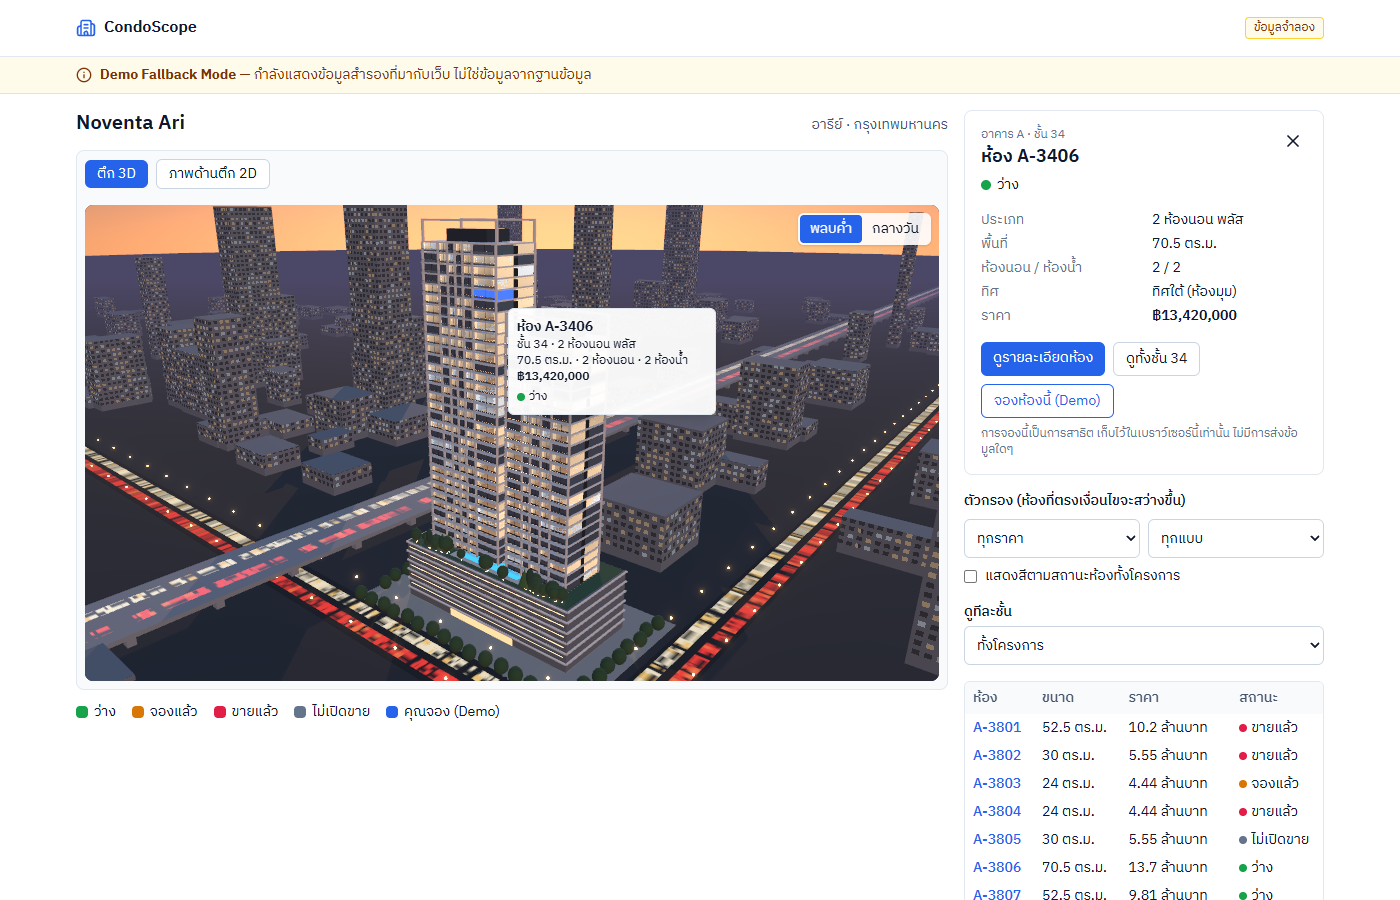
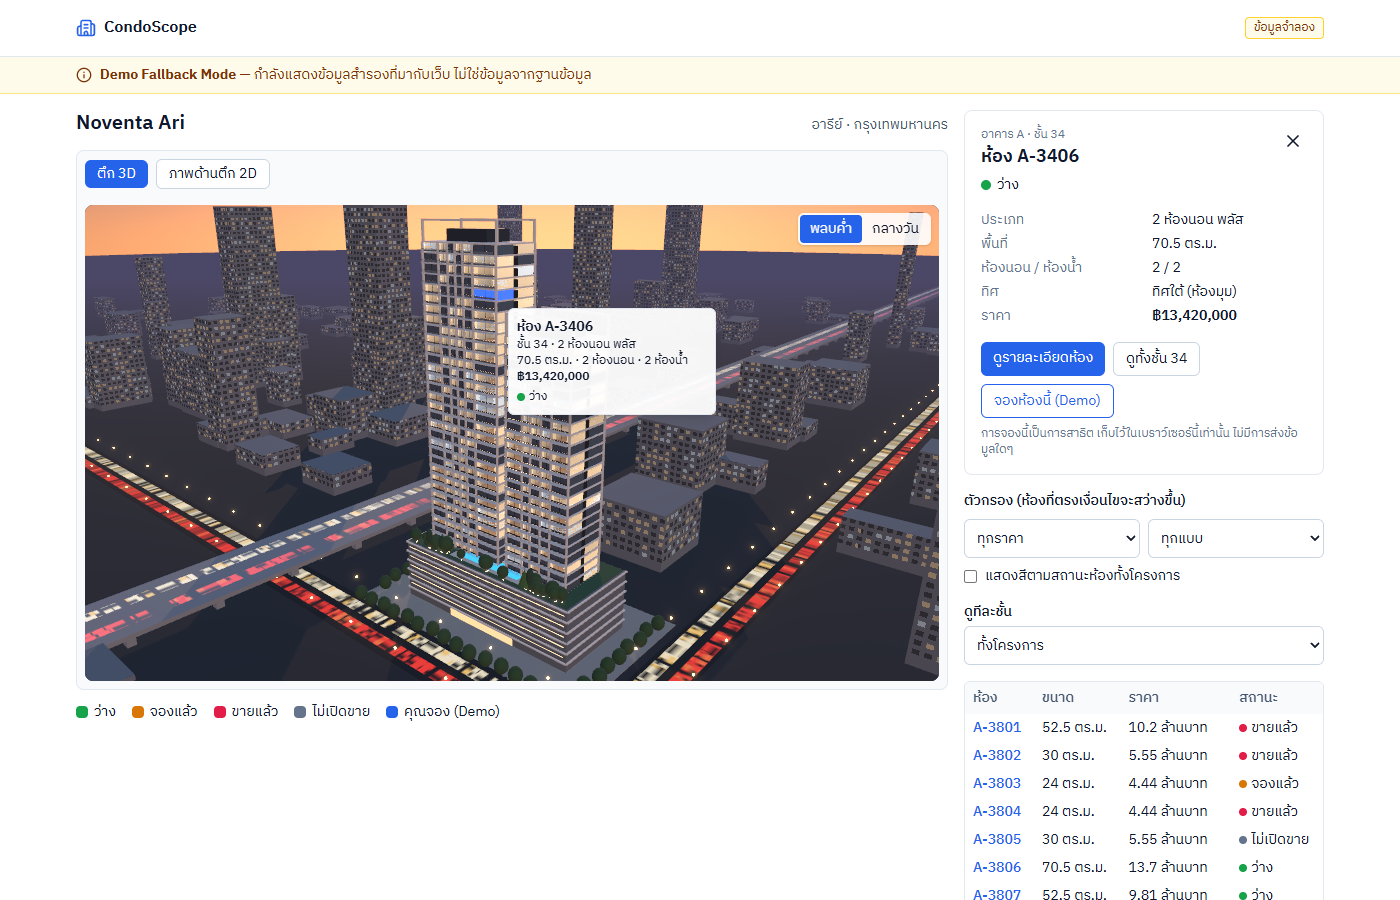
feat(explorer): camera turns to a selected unit that is out of sight
A unit picked from the list or keyboard (e.g. on the back facade) was selectable
but invisible. The camera now moves to the unit's facade only when the unit is not
already visible on screen. e2e port is configurable via E2E_PORT.

diff --git a/apps/web/src/features/explorer/Building3D.tsx b/apps/web/src/features/explorer/Building3D.tsx
@@ -3,10 +3,10 @@ import { Environment, OrbitControls, PerformanceMonitor } from '@react-three/dre
 import { Bloom, EffectComposer, SSAO } from '@react-three/postprocessing';
 import { Canvas, useFrame, useThree, type ThreeEvent } from '@react-three/fiber';
 import { Suspense, useEffect, useMemo, useRef, useState } from 'react';
-import { ACESFilmicToneMapping, InstancedMesh, Raycaster, Vector2, Vector3 } from 'three';
+import { ACESFilmicToneMapping, InstancedMesh, Raycaster, Vector2, Vector3, type Camera } from 'three';
 import type { OrbitControls as OrbitControlsImpl } from 'three-stdlib';
 import City from './scene/City';
-import { homeView, projectBounds, towerMatrix, unitWorldCenter, type Bounds, type Vec3 } from './scene/layout';
+import { homeView, projectBounds, towerMatrix, unitViewGoal, unitWorldCenter, type Bounds, type Vec3 } from './scene/layout';
 import Landscape from './scene/Landscape';
 import Site from './scene/Site';
 import Sky from './scene/Sky';
@@ -103,7 +103,7 @@ function Scene({ x, bounds, home, onHover, time, low, onSlow }: SceneProps) {
       <Landscape r={bounds} seed={seed} time={time} />
       <City r={bounds} seed={seed} time={time} />
       <Towers x={x} unitsRef={unitsRef} onHover={onHover} onPick={(u) => x.select(u.id)} />
-      <CameraRig x={x} home={home} bounds={bounds} />
+      <CameraRig x={x} home={home} bounds={bounds} unitsRef={unitsRef} />
       <Probe x={x} unitsRef={unitsRef} />
       {low ? (
         <EffectComposer key="low" multisampling={0}>
@@ -120,13 +120,20 @@ function Scene({ x, bounds, home, onHover, time, low, onSlow }: SceneProps) {
 }
 
 /** Orbit controls plus a smooth move to the home view or to a cut floor. Stops as soon as the user drags. */
-function CameraRig({ x, home, bounds }: { x: ExplorerApi; home: { position: Vec3; target: Vec3 }; bounds: Bounds }) {
+function CameraRig({ x, home, bounds, unitsRef }: { x: ExplorerApi; home: { position: Vec3; target: Vec3 }; bounds: Bounds; unitsRef: React.RefObject<InstancedMesh | null> }) {
   const controls = useRef<OrbitControlsImpl>(null);
   const goal = useRef<{ pos: Vector3; target: Vector3 } | null>(null);
-  const camera = useThree((s) => s.camera);
+  const { camera, gl } = useThree();
 
-  const { cutFloor, buildings } = x;
+  const { cutFloor, buildings, selectedId } = x;
   useEffect(() => { goal.current = viewFor(cutFloor, buildings, home); }, [cutFloor, buildings, home]);
+  // a unit picked from the list or keyboard may be out of sight (e.g. back facade): bring it into view
+  useEffect(() => {
+    if (selectedId === null || screenPoint(x, selectedId, unitsRef.current, camera, gl.domElement.getBoundingClientRect(), 0)) return;
+    const u = x.unit(selectedId)!;
+    const v = unitViewGoal(x.buildings.find((b) => b.id === u.building_id)!, u);
+    goal.current = { pos: new Vector3(...v.position), target: new Vector3(...v.target) };
+  }, [selectedId]); // only a new selection should move the camera, not every re-render
 
   useFrame((_, dt) => {
     const g = goal.current;
@@ -163,32 +170,29 @@ function viewFor(cut: CutFloor, buildings: Building[], home: { position: Vec3; t
 }
 
 /**
- * Test hook: screen position of a unit centre (used by the Playwright success-criterion test).
- * Returns null when the unit is off screen or hidden behind another unit.
+ * Screen position of a unit centre, or null when it is off screen, on a cut-away floor or hidden behind
+ * another unit. With px > 0 the unit must also cover px pixels around its centre (so a click cannot land on a neighbour).
  */
+function screenPoint(x: ExplorerApi, id: number, mesh: InstancedMesh | null, camera: Camera, rect: DOMRect, px: number) {
+  const u = x.unit(id);
+  const b = u && x.buildings.find((v) => v.id === u.building_id);
+  if (!u || !b || !mesh || !x.isVisible(u)) return null;
+  const ndc = unitWorldCenter(b, u).project(camera);
+  if (Math.abs(ndc.x) > 0.95 || Math.abs(ndc.y) > 0.95 || ndc.z > 1) return null;
+  const ray = new Raycaster();
+  for (const [dx, dy] of px ? [[0, 0], [px, 0], [-px, 0], [0, px], [0, -px]] : [[0, 0]]) {
+    ray.setFromCamera(new Vector2(ndc.x + (2 * dx) / rect.width, ndc.y + (2 * dy) / rect.height), camera);
+    const hit = ray.intersectObject(mesh).find((h) => h.instanceId !== undefined && x.isVisible(x.units[h.instanceId]));
+    if (!hit || x.units[hit.instanceId!].id !== id) return null;
+  }
+  return { x: rect.left + ((ndc.x + 1) / 2) * rect.width, y: rect.top + ((1 - ndc.y) / 2) * rect.height };
+}
+
+/** Test hook used by the Playwright success-criterion test. */
 function Probe({ x, unitsRef }: { x: ExplorerApi; unitsRef: React.RefObject<InstancedMesh | null> }) {
   const { camera, gl } = useThree();
   useEffect(() => {
-    const ray = new Raycaster();
-    window.__condoscope = {
-      projectUnit(id) {
-        const u = x.unit(id);
-        const b = u && x.buildings.find((v) => v.id === u.building_id);
-        const mesh = unitsRef.current;
-        if (!u || !b || !mesh || !x.isVisible(u)) return null;
-        const ndc = unitWorldCenter(b, u).project(camera);
-        if (Math.abs(ndc.x) > 0.95 || Math.abs(ndc.y) > 0.95 || ndc.z > 1) return null;
-        const r = gl.domElement.getBoundingClientRect();
-        // the unit must cover a few pixels around its centre, so a click there cannot land on a neighbour
-        const px = 3;
-        for (const [dx, dy] of [[0, 0], [px, 0], [-px, 0], [0, px], [0, -px]]) {
-          ray.setFromCamera(new Vector2(ndc.x + (2 * dx) / r.width, ndc.y + (2 * dy) / r.height), camera);
-          const hit = ray.intersectObject(mesh).find((h) => h.instanceId !== undefined && x.isVisible(x.units[h.instanceId]));
-          if (!hit || x.units[hit.instanceId!].id !== id) return null;
-        }
-        return { x: r.left + ((ndc.x + 1) / 2) * r.width, y: r.top + ((1 - ndc.y) / 2) * r.height };
-      },
-    };
+    window.__condoscope = { projectUnit: (id) => screenPoint(x, id, unitsRef.current, camera, gl.domElement.getBoundingClientRect(), 3) };
     return () => { delete window.__condoscope; };
   }, [x, camera, gl, unitsRef]);
   return null;

diff --git a/apps/web/src/features/explorer/scene/layout.test.ts b/apps/web/src/features/explorer/scene/layout.test.ts
@@ -1,7 +1,7 @@
 import { buildingWidth, unitBox, type ExplorerPayload } from '@condoscope/shared';
 import { beforeAll, describe, expect, it } from 'vitest';
 import { getExplorer } from '../../../services/api';
-import { homeView, projectBounds, unitWorldCenter } from './layout';
+import { homeView, projectBounds, unitViewGoal, unitWorldCenter } from './layout';
 
 let ari: ExplorerPayload;
 let onNut: ExplorerPayload;
@@ -38,6 +38,19 @@ describe('scene layout', () => {
     expect(r.maxX).toBeGreaterThanOrEqual(b.origin_x_m + buildingWidth(b) / 2);
     expect(r.podiumH).toBeCloseTo(6 * 3.6);
     expect(r.top).toBeGreaterThan(r.podiumH + 31 * 3.2);
+  });
+
+  it('puts the camera outside the facade a unit is on, looking at it', () => {
+    const b = ari.buildings[0];
+    const front = ari.units.find((u) => u.building_id === b.id && u.facade === 'front' && u.floor_number === 20)!;
+    const back = ari.units.find((u) => u.building_id === b.id && u.facade === 'back' && u.floor_number === 20)!;
+    const f = unitViewGoal(b, front);
+    expect(f.position[2]).toBeGreaterThan(f.target[2] + 30);
+    expect(f.target).toEqual(unitWorldCenter(b, front).toArray());
+    expect(unitViewGoal(b, back).position[2]).toBeLessThan(unitWorldCenter(b, back).z - 30);
+    const turned = onNut.units.find((u) => u.facade === 'front')!;
+    const t = unitViewGoal(onNut.buildings[0], turned);
+    expect(t.position[0]).toBeLessThan(t.target[0] - 30); // 90° tower: front faces west
   });
 
   it('frames the whole project from the home camera', () => {

diff --git a/apps/web/playwright.config.ts b/apps/web/playwright.config.ts
@@ -1,6 +1,8 @@
 import { defineConfig } from '@playwright/test';
 
 // Software WebGL so the 3D tests run on machines and CI runners without a GPU.
+// shortcut: Playwright on Windows can leave the preview server running; E2E_PORT lets a rerun pick a free port
+const PORT = Number(process.env.E2E_PORT ?? 4321);
 const SOFT_GL = ['--use-angle=swiftshader', '--enable-unsafe-swiftshader'];
 
 export default defineConfig({
@@ -9,15 +11,15 @@ export default defineConfig({
   expect: { timeout: 15_000 },
   fullyParallel: false,
   workers: 1,
-  use: { baseURL: 'http://localhost:4321/condoscope/', viewport: { width: 1400, height: 900 } },
+  use: { baseURL: `http://localhost:${PORT}/condoscope/`, viewport: { width: 1400, height: 900 } },
   projects: [
     { name: 'chromium', grepInvert: /@nogl/, use: { browserName: 'chromium', launchOptions: { args: SOFT_GL } } },
     { name: 'chromium-nogl', grep: /@nogl/, use: { browserName: 'chromium', launchOptions: { args: ['--disable-webgl', '--disable-webgl2', '--disable-gpu'] } } },
   ],
   webServer: {
     // one node process (no npm wrapper) so Playwright can stop it cleanly on Windows; e2e script builds first
-    command: 'node ../../node_modules/vite/bin/vite.js preview --port 4321 --strictPort',
-    url: 'http://localhost:4321/condoscope/',
+    command: `node ../../node_modules/vite/bin/vite.js preview --port ${PORT} --strictPort`,
+    url: `http://localhost:${PORT}/condoscope/`,
     reuseExistingServer: false,
     timeout: 180_000,
   },

diff --git a/apps/web/e2e/explorer.spec.ts b/apps/web/e2e/explorer.spec.ts
@@ -99,3 +99,14 @@ test('คลิกห้อง → ดูรายละเอียด → hots
   await page.mouse.click(p!.x, p!.y);
   await expect(panelTitle(page)).toHaveText(`ห้อง ${b.unit_number}`);
 });
+
+test('เลือกห้องด้านหลังตึกจากรายการ กล้องหมุนไปให้เห็นห้องนั้น', async ({ page }) => {
+  await open3D(page, 1);
+  const back = data.units.find((u) => u.building_id === 1 && u.facade === 'back' && u.unit_number.startsWith('A-20'))!;
+  expect(await page.evaluate((id) => window.__condoscope!.projectUnit(id), back.id)).toBeNull(); // hidden from the start view
+  await page.getByRole('table').getByRole('button', { name: new RegExp(`^ห้อง ${back.unit_number} `) }).click();
+  await expect.poll(() => page.evaluate((id) => window.__condoscope!.projectUnit(id), back.id), { timeout: 10_000 }).not.toBeNull();
+  const p = (await page.evaluate((id) => window.__condoscope!.projectUnit(id), back.id))!;
+  await page.mouse.click(p.x, p.y);
+  await expect(panelTitle(page)).toHaveText(`ห้อง ${back.unit_number}`);
+});

diff --git a/apps/web/src/features/explorer/scene/layout.ts b/apps/web/src/features/explorer/scene/layout.ts
@@ -17,6 +17,13 @@ export function unitWorldCenter(b: Building, u: { floor_number: number; facade: 
 
 export const towerTop = (b: Building) => floorBaseY(b, b.last_res_floor + 1);
 
+/** Camera 70 m out from the unit's facade, slightly above and to the side, looking at the unit. */
+export function unitViewGoal(b: Building, u: { floor_number: number; facade: Facade; bay_index: number }): { position: Vec3; target: Vec3 } {
+  const target = unitWorldCenter(b, u);
+  const out = new Vector3(0.35, 0.25, u.facade === 'front' ? 1 : -1).transformDirection(towerMatrix(b)).multiplyScalar(70);
+  return { position: target.clone().add(out).toArray(), target: target.toArray() };
+}
+
 export interface Bounds { minX: number; maxX: number; minZ: number; maxZ: number; podiumH: number; top: number; }
 
 /** Footprint of every tower (balconies included) after rotation, plus the podium margin. */

diff --git a/CLAUDE.md b/CLAUDE.md
@@ -16,12 +16,19 @@
   - ตรวจงานทั้ง branch แล้ว (ผล: merge ได้หลังแก้) และแก้ครบ: ErrorBoundary ให้ 3D พังแล้วสลับเป็น 2D, ไม่วาดฉากใหม่ทุกครั้งที่ขยับเมาส์, ลูกศรด้านหลังตึกถูกทิศ, HDRI ไม่บล็อกการแสดงตึก
   - Test: Vitest 26 + 33 ผ่าน, Playwright e2e 11 ผ่าน · chunk Building3D ~302 KB gzip (เกณฑ์ ≤ 600 KB)
   - SSAO ใช้แทน N8AO (N8AO พังกับ three 0.187) และใช้เงา PCF (three 0.187 ตัด PCFSoft)
-  - เรื่องเล็กที่ยังไม่แก้ (ผู้ใช้ตัดสินใจ): `hasWebGL()` ไม่คืน WebGL context, กล้อง 3D ไม่หมุนตามห้องที่เลือกจากรายการ, `TempHome` ไม่มี error state, CanvasTexture ของ `City` ไม่ถูก dispose, hook ทดสอบ `window.__condoscope` อยู่ใน production, ยังไม่มี unit test สำหรับ `#/explorer/abc`
+  - เรื่องเล็กที่ยังไม่แก้ (ผู้ใช้ตัดสินใจ): `hasWebGL()` ไม่คืน WebGL context, `TempHome` ไม่มี error state, CanvasTexture ของ `City` ไม่ถูก dispose, hook ทดสอบ `window.__condoscope` อยู่ใน production, ยังไม่มี unit test สำหรับ `#/explorer/abc`
+  - ✅ กล้อง 3D หมุนไปหาห้องที่เลือกจากรายการ/คีย์บอร์ดเมื่อห้องนั้นมองไม่เห็น (`unitViewGoal` ใน `scene/layout.ts`) — e2e 12 ผ่าน, Vitest 34 ผ่าน
   - ⏳ **ขั้นถัดไป:** ผู้ใช้ตัดสินใจ merge `feat/plan-1` → `main` และ push · เขียนแผน 2 (Worker + D1) → แผน 3 (หน้าแรกแบบค้นหาตามสเปกข้อ 8.1, Search, Project, Map, Deploy)
   - ⚠ หน้า `/` ตอนนี้เป็นรายการโครงการชั่วคราว (`components/TempHome.tsx`) ลิงก์ตรงไปตึก 3D ซึ่งยังไม่ตรงสเปกข้อ 8.1 — แผน 3 จะแทนด้วยหน้าค้นหา
   - ⚠ บน Windows Playwright ค้างประมาณ 5 นาทีตอนปิดเซิร์ฟเวอร์หลังรัน test เสร็จ (ผล test ไม่กระทบ) · e2e ใช้พอร์ต 4321
   - บันทึกการตัดสินใจระหว่างพัฒนาอยู่ใน `.superpowers/sdd/2026-11-09-plan-1-data-explorer-unit/progress.md` (ไม่อยู่ใน git)
 - 💤 **งานเสริมหลังแผน 3 (ยังไม่เริ่ม ห้ามเริ่มเองจนกว่าผู้ใช้อนุญาต):** เพิ่มประเภทห้องใหม่ 3 แบบตามลำดับ penthouse (ห้องใหญ่ชั้นบนสุด) → duplex (ห้อง 2 ชั้น แปลนแยกสองชั้น) → full-floor (ห้องเดียวทั้งชั้น) ต้องแก้โมเดลข้อมูล, ตัวสร้างตึก 3D, หน้ารายละเอียดห้อง, รูปภายใน (ผู้ใช้เจนเองด้วย Gemini) และ test case ใน `docs/qa-ba/` — รายละเอียดในสเปกข้อ 14
+- 💤 **งานรอบ UX/UI หลังแผน 3 (ยังไม่เริ่ม ห้ามเริ่มเองจนกว่าผู้ใช้อนุญาต)** — ผู้ใช้สั่งเพิ่ม 2026-11-09
+  - หน้า Explorer: ตึก 3D เต็มหน้าจอ แผงรายการห้อง/ตัวกรอง/รายละเอียดห้องลอยทับด้านข้างแบบโปร่งแสง (ต้องคงใช้คีย์บอร์ดและ screen reader ได้ และบนมือถือยังเป็น bottom sheet)
+  - แผนที่กรุงเทพฯ (MapLibre + OpenFreeMap) ปักหมุดทั้ง 5 โครงการตามพิกัดในข้อมูลจำลอง กดหมุดแล้วเข้า Explorer ของโครงการนั้น — ⚠ ขัดกับสเปกข้อ 8.1 ที่ให้ 3D เข้าผ่านหน้าโครงการ: ถามผู้ใช้ก่อนทำว่าจะให้หมุดไป Explorer ตรงๆ หรือไปหน้าโครงการ (หรือ popup มีปุ่มทั้งสอง)
+  - หน้าแรกยังเป็นหน้าค้นหาก่อน แผนที่เป็นมุมมองสลับ (ตามกฎเดิม)
+  - ตรวจ terms ของ OpenFreeMap ก่อนทำแผนที่ (ตรงกับสเปกข้อ 13.12)
+  - หมายเหตุ: แผน 3 มีหน้า Map (หมุด 5 โครงการ + popup) อยู่แล้ว งานรอบนี้คือปรับต่อจากของแผน 3
 
 ## กฎที่ห้ามฝ่า
 - **งบ 0 บาท:** ใช้ free tier และ open source เท่านั้น ห้ามใช้บริการที่ต้องผูกบัตร
